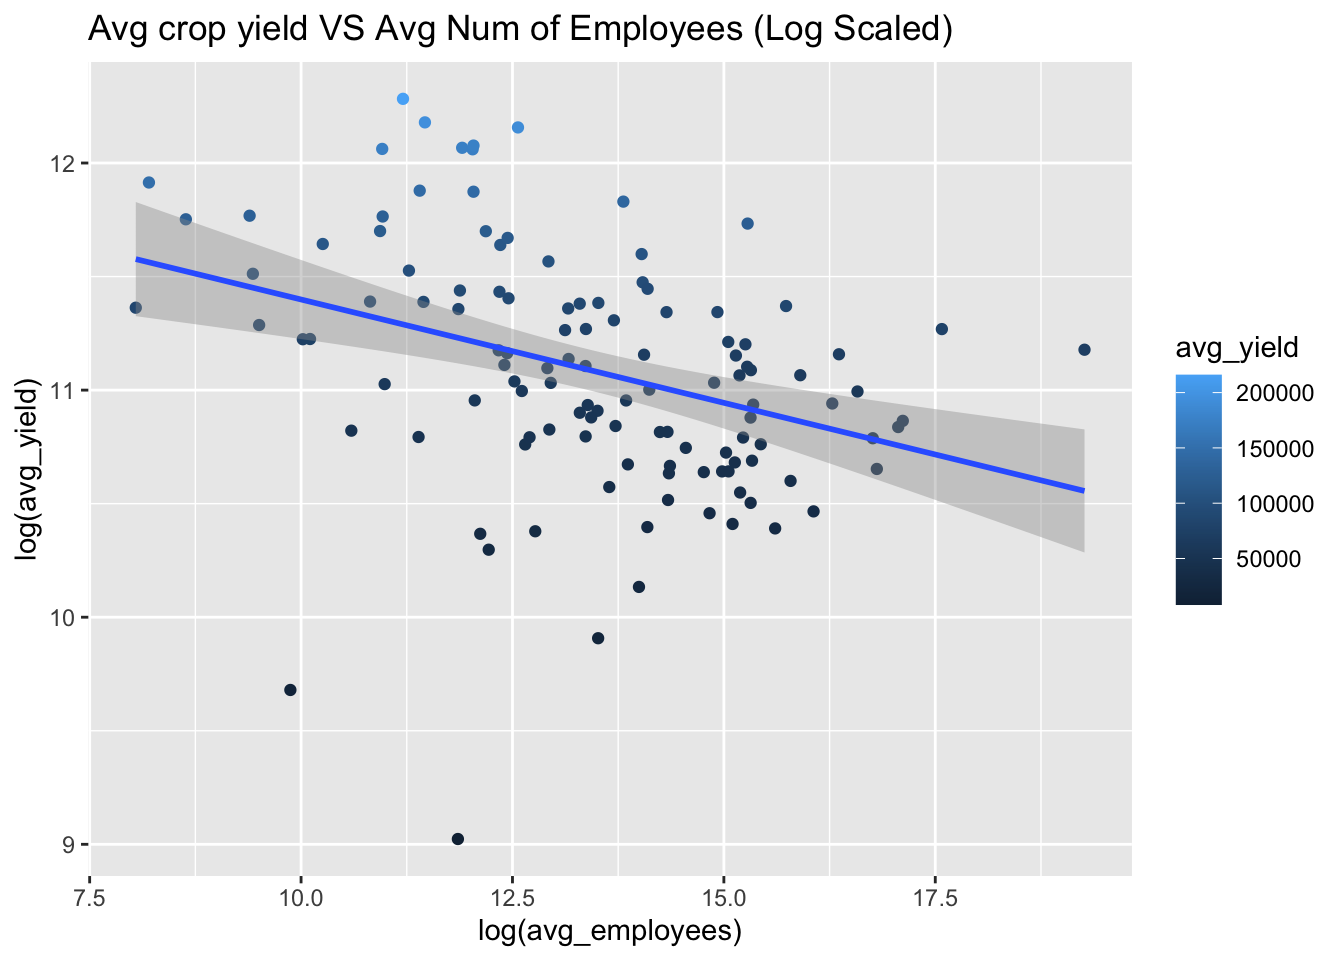
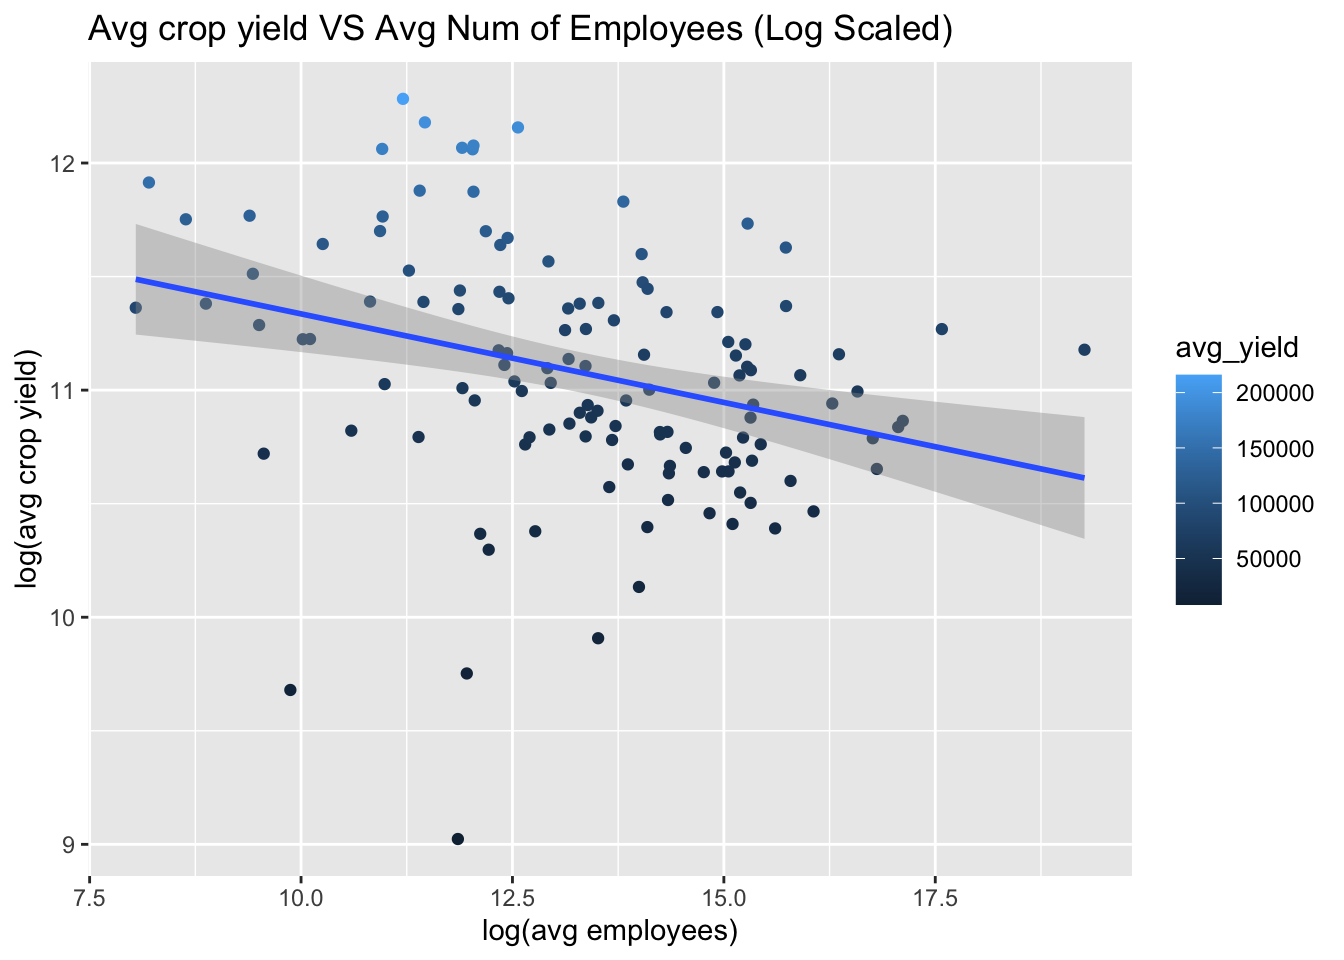
Normality check and distribution plots

diff --git a/final_project.html b/final_project.html
@@ -81,7 +81,11 @@ pre > code.sourceCode > span > a:first-child::before { text-decoration: underlin
   <ul>
   <li><a href="#loading-data" id="toc-loading-data" class="nav-link active" data-scroll-target="#loading-data">Loading data</a></li>
   <li><a href="#data-cleaning-arranging" id="toc-data-cleaning-arranging" class="nav-link" data-scroll-target="#data-cleaning-arranging">Data Cleaning &amp; Arranging</a></li>
-  <li><a href="#data-visualization" id="toc-data-visualization" class="nav-link" data-scroll-target="#data-visualization">Data Visualization</a></li>
+  <li><a href="#data-visualization" id="toc-data-visualization" class="nav-link" data-scroll-target="#data-visualization">Data Visualization</a>
+  <ul class="collapse">
+  <li><a href="#scatter-plots" id="toc-scatter-plots" class="nav-link" data-scroll-target="#scatter-plots">Scatter plots</a></li>
+  </ul></li>
+  <li><a href="#distribution-plot" id="toc-distribution-plot" class="nav-link" data-scroll-target="#distribution-plot">Distribution plot</a></li>
   </ul>
 </nav>
 </div>
@@ -355,26 +359,32 @@ pre > code.sourceCode > span > a:first-child::before { text-decoration: underlin
 </section>
 <section id="data-visualization" class="level1">
 <h1>Data Visualization</h1>
+<section id="scatter-plots" class="level2">
+<h2 class="anchored" data-anchor-id="scatter-plots">Scatter plots</h2>
 <div class="cell">
 <div class="sourceCode cell-code" id="cb22"><pre class="sourceCode r code-with-copy"><code class="sourceCode r"><span id="cb22-1"><a href="#cb22-1" aria-hidden="true" tabindex="-1"></a>filled_with_avg <span class="sc">|&gt;</span></span>
 <span id="cb22-2"><a href="#cb22-2" aria-hidden="true" tabindex="-1"></a>  <span class="fu">filter</span>(<span class="sc">!</span><span class="fu">is.na</span>(pop_amount)) <span class="sc">|&gt;</span></span>
 <span id="cb22-3"><a href="#cb22-3" aria-hidden="true" tabindex="-1"></a>  <span class="fu">group_by</span>(Country) <span class="sc">|&gt;</span></span>
 <span id="cb22-4"><a href="#cb22-4" aria-hidden="true" tabindex="-1"></a>  <span class="fu">summarize</span>(<span class="at">avg_pop =</span> <span class="fu">mean</span>(pop_amount), <span class="at">avg_yield =</span> <span class="fu">mean</span>(yield)) <span class="sc">|&gt;</span></span>
-<span id="cb22-5"><a href="#cb22-5" aria-hidden="true" tabindex="-1"></a>  <span class="fu">ggplot</span>(<span class="fu">aes</span>(<span class="at">x=</span><span class="fu">log</span>(avg_pop), <span class="at">y=</span><span class="fu">log</span>(avg_yield), <span class="at">color=</span>avg_yield)) <span class="sc">+</span></span>
+<span id="cb22-5"><a href="#cb22-5" aria-hidden="true" tabindex="-1"></a>  <span class="fu">ggplot</span>(<span class="fu">aes</span>(<span class="at">x=</span><span class="fu">log</span>(avg_pop <span class="sc">+</span> <span class="dv">1</span>), <span class="at">y=</span><span class="fu">log</span>(avg_yield <span class="sc">+</span> <span class="dv">1</span>), <span class="at">color=</span>avg_yield)) <span class="sc">+</span></span>
 <span id="cb22-6"><a href="#cb22-6" aria-hidden="true" tabindex="-1"></a>  <span class="fu">geom_point</span>() <span class="sc">+</span> </span>
 <span id="cb22-7"><a href="#cb22-7" aria-hidden="true" tabindex="-1"></a>  <span class="fu">geom_smooth</span>(<span class="at">formula =</span> y<span class="sc">~</span>x, <span class="at">method=</span><span class="st">'lm'</span>) <span class="sc">+</span> </span>
-<span id="cb22-8"><a href="#cb22-8" aria-hidden="true" tabindex="-1"></a>  <span class="fu">labs</span>(<span class="at">title=</span><span class="st">'Avg crop yield VS Avg Population  (Log Scaled)'</span>)</span></code><button title="Copy to Clipboard" class="code-copy-button"><i class="bi"></i></button></pre></div>
+<span id="cb22-8"><a href="#cb22-8" aria-hidden="true" tabindex="-1"></a>  <span class="fu">labs</span>(<span class="at">title=</span><span class="st">'Avg crop yield VS Avg Population  (Log Scaled)'</span>,</span>
+<span id="cb22-9"><a href="#cb22-9" aria-hidden="true" tabindex="-1"></a>       <span class="at">x=</span><span class="st">'log(avg population)'</span>,</span>
+<span id="cb22-10"><a href="#cb22-10" aria-hidden="true" tabindex="-1"></a>       <span class="at">y=</span><span class="st">'log(avg crop yield)'</span>)</span></code><button title="Copy to Clipboard" class="code-copy-button"><i class="bi"></i></button></pre></div>
 <div class="cell-output-display">
 <p><img src="final_project_files/figure-html/unnamed-chunk-8-1.png" class="quarto-discovered-preview-image img-fluid" width="672"></p>
 </div>
 <div class="sourceCode cell-code" id="cb23"><pre class="sourceCode r code-with-copy"><code class="sourceCode r"><span id="cb23-1"><a href="#cb23-1" aria-hidden="true" tabindex="-1"></a>filled_with_avg <span class="sc">|&gt;</span></span>
-<span id="cb23-2"><a href="#cb23-2" aria-hidden="true" tabindex="-1"></a>  <span class="fu">filter</span>(<span class="sc">!</span><span class="fu">is.na</span>(pop_amount)) <span class="sc">|&gt;</span></span>
+<span id="cb23-2"><a href="#cb23-2" aria-hidden="true" tabindex="-1"></a>  <span class="fu">filter</span>(<span class="sc">!</span><span class="fu">is.na</span>(number_employed_agri)) <span class="sc">|&gt;</span></span>
 <span id="cb23-3"><a href="#cb23-3" aria-hidden="true" tabindex="-1"></a>  <span class="fu">group_by</span>(Country) <span class="sc">|&gt;</span></span>
 <span id="cb23-4"><a href="#cb23-4" aria-hidden="true" tabindex="-1"></a>  <span class="fu">summarize</span>(<span class="at">avg_employees =</span> <span class="fu">mean</span>(number_employed_agri), <span class="at">avg_yield =</span> <span class="fu">mean</span>(yield)) <span class="sc">|&gt;</span></span>
-<span id="cb23-5"><a href="#cb23-5" aria-hidden="true" tabindex="-1"></a>  <span class="fu">ggplot</span>(<span class="fu">aes</span>(<span class="at">x=</span><span class="fu">log</span>(avg_employees), <span class="at">y=</span><span class="fu">log</span>(avg_yield), <span class="at">color=</span>avg_yield)) <span class="sc">+</span></span>
+<span id="cb23-5"><a href="#cb23-5" aria-hidden="true" tabindex="-1"></a>  <span class="fu">ggplot</span>(<span class="fu">aes</span>(<span class="at">x=</span><span class="fu">log</span>(avg_employees <span class="sc">+</span> <span class="dv">1</span>), <span class="at">y=</span><span class="fu">log</span>(avg_yield <span class="sc">+</span> <span class="dv">1</span>), <span class="at">color=</span>avg_yield)) <span class="sc">+</span></span>
 <span id="cb23-6"><a href="#cb23-6" aria-hidden="true" tabindex="-1"></a>  <span class="fu">geom_point</span>() <span class="sc">+</span> </span>
 <span id="cb23-7"><a href="#cb23-7" aria-hidden="true" tabindex="-1"></a>  <span class="fu">geom_smooth</span>(<span class="at">formula =</span> y<span class="sc">~</span>x, <span class="at">method=</span><span class="st">'lm'</span>) <span class="sc">+</span> </span>
-<span id="cb23-8"><a href="#cb23-8" aria-hidden="true" tabindex="-1"></a>  <span class="fu">labs</span>(<span class="at">title=</span><span class="st">'Avg crop yield VS Avg Num of Employees (Log Scaled)'</span>)</span></code><button title="Copy to Clipboard" class="code-copy-button"><i class="bi"></i></button></pre></div>
+<span id="cb23-8"><a href="#cb23-8" aria-hidden="true" tabindex="-1"></a>  <span class="fu">labs</span>(<span class="at">title=</span><span class="st">'Avg crop yield VS Avg Num of Employees (Log Scaled)'</span>,</span>
+<span id="cb23-9"><a href="#cb23-9" aria-hidden="true" tabindex="-1"></a>       <span class="at">x=</span><span class="st">'log(avg employees)'</span>,</span>
+<span id="cb23-10"><a href="#cb23-10" aria-hidden="true" tabindex="-1"></a>       <span class="at">y=</span><span class="st">'log(avg crop yield)'</span>)</span></code><button title="Copy to Clipboard" class="code-copy-button"><i class="bi"></i></button></pre></div>
 <div class="cell-output-display">
 <p><img src="final_project_files/figure-html/unnamed-chunk-8-2.png" class="img-fluid" width="672"></p>
 </div>
@@ -404,10 +414,12 @@ pre > code.sourceCode > span > a:first-child::before { text-decoration: underlin
 <span id="cb26-2"><a href="#cb26-2" aria-hidden="true" tabindex="-1"></a>  <span class="fu">filter</span>(<span class="sc">!</span><span class="fu">is.na</span>(land_price)) <span class="sc">|&gt;</span></span>
 <span id="cb26-3"><a href="#cb26-3" aria-hidden="true" tabindex="-1"></a>  <span class="fu">group_by</span>(Country) <span class="sc">|&gt;</span></span>
 <span id="cb26-4"><a href="#cb26-4" aria-hidden="true" tabindex="-1"></a>  <span class="fu">summarize</span>(<span class="at">avg_land_price =</span> <span class="fu">mean</span>(land_price), <span class="at">avg_yield =</span> <span class="fu">mean</span>(yield)) <span class="sc">|&gt;</span></span>
-<span id="cb26-5"><a href="#cb26-5" aria-hidden="true" tabindex="-1"></a>  <span class="fu">ggplot</span>(<span class="fu">aes</span>(<span class="at">x=</span><span class="fu">log</span>(avg_land_price), <span class="at">y=</span><span class="fu">log</span>(avg_yield), <span class="at">color=</span>avg_yield)) <span class="sc">+</span> </span>
+<span id="cb26-5"><a href="#cb26-5" aria-hidden="true" tabindex="-1"></a>  <span class="fu">ggplot</span>(<span class="fu">aes</span>(<span class="at">x=</span><span class="fu">log</span>(avg_land_price <span class="sc">+</span> <span class="dv">1</span>), <span class="at">y=</span><span class="fu">log</span>(avg_yield <span class="sc">+</span> <span class="dv">1</span>), <span class="at">color=</span>avg_yield)) <span class="sc">+</span> </span>
 <span id="cb26-6"><a href="#cb26-6" aria-hidden="true" tabindex="-1"></a>  <span class="fu">geom_point</span>() <span class="sc">+</span> </span>
 <span id="cb26-7"><a href="#cb26-7" aria-hidden="true" tabindex="-1"></a>  <span class="fu">geom_smooth</span>(<span class="at">formula =</span> y<span class="sc">~</span>x, <span class="at">method=</span><span class="st">'lm'</span>) <span class="sc">+</span> </span>
-<span id="cb26-8"><a href="#cb26-8" aria-hidden="true" tabindex="-1"></a>  <span class="fu">labs</span>(<span class="at">title =</span> <span class="st">'Avg crop yield VS Avg Land price (Log Scaled)'</span>)</span></code><button title="Copy to Clipboard" class="code-copy-button"><i class="bi"></i></button></pre></div>
+<span id="cb26-8"><a href="#cb26-8" aria-hidden="true" tabindex="-1"></a>  <span class="fu">labs</span>(<span class="at">title =</span> <span class="st">'Avg crop yield VS Avg Land price (Log Scaled)'</span>,</span>
+<span id="cb26-9"><a href="#cb26-9" aria-hidden="true" tabindex="-1"></a>       <span class="at">x=</span><span class="st">'log(avg land price)'</span>,</span>
+<span id="cb26-10"><a href="#cb26-10" aria-hidden="true" tabindex="-1"></a>       <span class="at">y=</span><span class="st">'log(avg crop yield)'</span>)</span></code><button title="Copy to Clipboard" class="code-copy-button"><i class="bi"></i></button></pre></div>
 <div class="cell-output-display">
 <p><img src="final_project_files/figure-html/unnamed-chunk-8-5.png" class="img-fluid" width="672"></p>
 </div>
@@ -415,10 +427,12 @@ pre > code.sourceCode > span > a:first-child::before { text-decoration: underlin
 <span id="cb27-2"><a href="#cb27-2" aria-hidden="true" tabindex="-1"></a>  <span class="fu">filter</span>(<span class="sc">!</span><span class="fu">is.na</span>(pesticides_amount)) <span class="sc">|&gt;</span></span>
 <span id="cb27-3"><a href="#cb27-3" aria-hidden="true" tabindex="-1"></a>  <span class="fu">group_by</span>(Country) <span class="sc">|&gt;</span></span>
 <span id="cb27-4"><a href="#cb27-4" aria-hidden="true" tabindex="-1"></a>  <span class="fu">summarize</span>(<span class="at">avg_pesticides =</span> <span class="fu">mean</span>(pesticides_amount), <span class="at">avg_yield =</span> <span class="fu">mean</span>(yield)) <span class="sc">|&gt;</span></span>
-<span id="cb27-5"><a href="#cb27-5" aria-hidden="true" tabindex="-1"></a>  <span class="fu">ggplot</span>(<span class="fu">aes</span>(<span class="at">x=</span><span class="fu">log</span>(avg_pesticides), <span class="at">y=</span><span class="fu">log</span>(avg_yield), <span class="at">color=</span>avg_yield)) <span class="sc">+</span> </span>
+<span id="cb27-5"><a href="#cb27-5" aria-hidden="true" tabindex="-1"></a>  <span class="fu">ggplot</span>(<span class="fu">aes</span>(<span class="at">x=</span><span class="fu">log</span>(avg_pesticides <span class="sc">+</span> <span class="dv">1</span>), <span class="at">y=</span><span class="fu">log</span>(avg_yield <span class="sc">+</span> <span class="dv">1</span>), <span class="at">color=</span>avg_yield)) <span class="sc">+</span> </span>
 <span id="cb27-6"><a href="#cb27-6" aria-hidden="true" tabindex="-1"></a>  <span class="fu">geom_point</span>() <span class="sc">+</span> </span>
 <span id="cb27-7"><a href="#cb27-7" aria-hidden="true" tabindex="-1"></a>  <span class="fu">geom_smooth</span>(<span class="at">formula =</span> y<span class="sc">~</span>x, <span class="at">method=</span><span class="st">'lm'</span>) <span class="sc">+</span> </span>
-<span id="cb27-8"><a href="#cb27-8" aria-hidden="true" tabindex="-1"></a>  <span class="fu">labs</span>(<span class="at">title =</span> <span class="st">'Avg crop yield VS Avg Pesticides amount (Log Scaled)'</span>)</span></code><button title="Copy to Clipboard" class="code-copy-button"><i class="bi"></i></button></pre></div>
+<span id="cb27-8"><a href="#cb27-8" aria-hidden="true" tabindex="-1"></a>  <span class="fu">labs</span>(<span class="at">title =</span> <span class="st">'Avg crop yield VS Avg Pesticides amount (Log Scaled)'</span>,</span>
+<span id="cb27-9"><a href="#cb27-9" aria-hidden="true" tabindex="-1"></a>       <span class="at">x=</span><span class="st">'log(avg pesticides)'</span>,</span>
+<span id="cb27-10"><a href="#cb27-10" aria-hidden="true" tabindex="-1"></a>       <span class="at">y=</span><span class="st">'log(avg crop yield)'</span>)</span></code><button title="Copy to Clipboard" class="code-copy-button"><i class="bi"></i></button></pre></div>
 <div class="cell-output-display">
 <p><img src="final_project_files/figure-html/unnamed-chunk-8-6.png" class="img-fluid" width="672"></p>
 </div>
@@ -426,12 +440,84 @@ pre > code.sourceCode > span > a:first-child::before { text-decoration: underlin
 <span id="cb28-2"><a href="#cb28-2" aria-hidden="true" tabindex="-1"></a>  <span class="fu">filter</span>(<span class="sc">!</span><span class="fu">is.na</span>(crop_price)) <span class="sc">|&gt;</span></span>
 <span id="cb28-3"><a href="#cb28-3" aria-hidden="true" tabindex="-1"></a>  <span class="fu">group_by</span>(Country) <span class="sc">|&gt;</span></span>
 <span id="cb28-4"><a href="#cb28-4" aria-hidden="true" tabindex="-1"></a>  <span class="fu">summarize</span>(<span class="at">avg_crop_price =</span> <span class="fu">mean</span>(pesticides_amount), <span class="at">avg_yield =</span> <span class="fu">mean</span>(yield)) <span class="sc">|&gt;</span></span>
-<span id="cb28-5"><a href="#cb28-5" aria-hidden="true" tabindex="-1"></a>  <span class="fu">ggplot</span>(<span class="fu">aes</span>(<span class="at">x=</span><span class="fu">log</span>(avg_crop_price), <span class="at">y=</span><span class="fu">log</span>(avg_yield), <span class="at">color=</span>avg_yield)) <span class="sc">+</span> </span>
+<span id="cb28-5"><a href="#cb28-5" aria-hidden="true" tabindex="-1"></a>  <span class="fu">ggplot</span>(<span class="fu">aes</span>(<span class="at">x=</span><span class="fu">log</span>(avg_crop_price <span class="sc">+</span> <span class="dv">1</span>), <span class="at">y=</span><span class="fu">log</span>(avg_yield <span class="sc">+</span> <span class="dv">1</span>), <span class="at">color=</span>avg_yield)) <span class="sc">+</span> </span>
 <span id="cb28-6"><a href="#cb28-6" aria-hidden="true" tabindex="-1"></a>  <span class="fu">geom_point</span>() <span class="sc">+</span> </span>
 <span id="cb28-7"><a href="#cb28-7" aria-hidden="true" tabindex="-1"></a>  <span class="fu">geom_smooth</span>(<span class="at">formula =</span> y<span class="sc">~</span>x, <span class="at">method=</span><span class="st">'lm'</span>) <span class="sc">+</span> </span>
-<span id="cb28-8"><a href="#cb28-8" aria-hidden="true" tabindex="-1"></a>  <span class="fu">labs</span>(<span class="at">title =</span> <span class="st">'Avg crop yield VS Avg Crop price (Log Scaled)'</span>)</span></code><button title="Copy to Clipboard" class="code-copy-button"><i class="bi"></i></button></pre></div>
+<span id="cb28-8"><a href="#cb28-8" aria-hidden="true" tabindex="-1"></a>  <span class="fu">labs</span>(<span class="at">title =</span> <span class="st">'Avg crop yield VS Avg Crop price (Log Scaled)'</span>,</span>
+<span id="cb28-9"><a href="#cb28-9" aria-hidden="true" tabindex="-1"></a>       <span class="at">x=</span><span class="st">'log(avg crop price)'</span>,</span>
+<span id="cb28-10"><a href="#cb28-10" aria-hidden="true" tabindex="-1"></a>       <span class="at">y=</span><span class="st">'log(avg crop yield)'</span>)</span></code><button title="Copy to Clipboard" class="code-copy-button"><i class="bi"></i></button></pre></div>
 <div class="cell-output-display">
 <p><img src="final_project_files/figure-html/unnamed-chunk-8-7.png" class="img-fluid" width="672"></p>
+</div>
+</div>
+</section>
+</section>
+<section id="distribution-plot" class="level1">
+<h1>Distribution plot</h1>
+<p>Determine the distribution of our response variable “yield”</p>
+<div class="cell">
+<div class="sourceCode cell-code" id="cb29"><pre class="sourceCode r code-with-copy"><code class="sourceCode r"><span id="cb29-1"><a href="#cb29-1" aria-hidden="true" tabindex="-1"></a>yield_hist <span class="ot">&lt;-</span> filled_with_avg <span class="sc">|&gt;</span></span>
+<span id="cb29-2"><a href="#cb29-2" aria-hidden="true" tabindex="-1"></a>  <span class="fu">na.omit</span>() <span class="sc">|&gt;</span></span>
+<span id="cb29-3"><a href="#cb29-3" aria-hidden="true" tabindex="-1"></a>  <span class="fu">ggplot</span>(<span class="fu">aes</span>(<span class="at">x=</span>yield)) <span class="sc">+</span> </span>
+<span id="cb29-4"><a href="#cb29-4" aria-hidden="true" tabindex="-1"></a>  <span class="fu">geom_histogram</span>(<span class="at">fill=</span><span class="st">"#69b3a2"</span>, <span class="at">color=</span><span class="st">"#e9ecef"</span>, <span class="at">alpha=</span><span class="fl">0.8</span>,<span class="at">bins=</span><span class="dv">30</span>)<span class="sc">+</span> </span>
+<span id="cb29-5"><a href="#cb29-5" aria-hidden="true" tabindex="-1"></a>  <span class="fu">theme</span>(<span class="at">axis.text.x =</span> <span class="fu">element_text</span>(<span class="at">angle=</span><span class="dv">20</span>, <span class="at">hjust=</span><span class="fl">0.5</span>))</span>
+<span id="cb29-6"><a href="#cb29-6" aria-hidden="true" tabindex="-1"></a></span>
+<span id="cb29-7"><a href="#cb29-7" aria-hidden="true" tabindex="-1"></a>yield_hist_log <span class="ot">&lt;-</span> filled_with_avg <span class="sc">|&gt;</span></span>
+<span id="cb29-8"><a href="#cb29-8" aria-hidden="true" tabindex="-1"></a>  <span class="fu">na.omit</span>() <span class="sc">|&gt;</span></span>
+<span id="cb29-9"><a href="#cb29-9" aria-hidden="true" tabindex="-1"></a>  <span class="fu">ggplot</span>(<span class="fu">aes</span>(<span class="at">x=</span><span class="fu">log</span>(yield <span class="sc">+</span> <span class="dv">1</span>))) <span class="sc">+</span> </span>
+<span id="cb29-10"><a href="#cb29-10" aria-hidden="true" tabindex="-1"></a>  <span class="fu">geom_histogram</span>(<span class="at">fill=</span><span class="st">"#69b3a2"</span>, <span class="at">color=</span><span class="st">"#e9ecef"</span>, <span class="at">alpha=</span><span class="fl">0.8</span>,<span class="at">bins=</span><span class="dv">30</span>)<span class="sc">+</span></span>
+<span id="cb29-11"><a href="#cb29-11" aria-hidden="true" tabindex="-1"></a>  <span class="fu">labs</span>(<span class="at">x =</span> <span class="st">'log(yield)'</span>) <span class="sc">+</span> </span>
+<span id="cb29-12"><a href="#cb29-12" aria-hidden="true" tabindex="-1"></a>  <span class="fu">theme</span>(<span class="at">axis.text.x =</span> <span class="fu">element_text</span>(<span class="at">angle=</span><span class="dv">20</span>, <span class="at">hjust=</span><span class="fl">0.5</span>),</span>
+<span id="cb29-13"><a href="#cb29-13" aria-hidden="true" tabindex="-1"></a>        <span class="at">axis.title.y =</span> <span class="fu">element_blank</span>())</span>
+<span id="cb29-14"><a href="#cb29-14" aria-hidden="true" tabindex="-1"></a></span>
+<span id="cb29-15"><a href="#cb29-15" aria-hidden="true" tabindex="-1"></a>yield_hist_sqrt <span class="ot">&lt;-</span> filled_with_avg <span class="sc">|&gt;</span></span>
+<span id="cb29-16"><a href="#cb29-16" aria-hidden="true" tabindex="-1"></a>  <span class="fu">na.omit</span>() <span class="sc">|&gt;</span></span>
+<span id="cb29-17"><a href="#cb29-17" aria-hidden="true" tabindex="-1"></a>  <span class="fu">ggplot</span>(<span class="fu">aes</span>(<span class="at">x=</span><span class="fu">sqrt</span>(yield))) <span class="sc">+</span></span>
+<span id="cb29-18"><a href="#cb29-18" aria-hidden="true" tabindex="-1"></a>  <span class="fu">geom_histogram</span>(<span class="at">fill=</span><span class="st">"#69b3a2"</span>, <span class="at">color=</span><span class="st">"#e9ecef"</span>, <span class="at">alpha=</span><span class="fl">0.8</span>,<span class="at">bins=</span><span class="dv">30</span>) <span class="sc">+</span> </span>
+<span id="cb29-19"><a href="#cb29-19" aria-hidden="true" tabindex="-1"></a>  <span class="fu">theme</span>(<span class="at">axis.text.x =</span> <span class="fu">element_text</span>(<span class="at">angle=</span><span class="dv">20</span>, <span class="at">hjust=</span><span class="fl">0.5</span>),</span>
+<span id="cb29-20"><a href="#cb29-20" aria-hidden="true" tabindex="-1"></a>        <span class="at">axis.title.y =</span> <span class="fu">element_blank</span>())</span>
+<span id="cb29-21"><a href="#cb29-21" aria-hidden="true" tabindex="-1"></a>  </span>
+<span id="cb29-22"><a href="#cb29-22" aria-hidden="true" tabindex="-1"></a></span>
+<span id="cb29-23"><a href="#cb29-23" aria-hidden="true" tabindex="-1"></a>  </span>
+<span id="cb29-24"><a href="#cb29-24" aria-hidden="true" tabindex="-1"></a>  </span>
+<span id="cb29-25"><a href="#cb29-25" aria-hidden="true" tabindex="-1"></a>yield_hist <span class="sc">+</span> yield_hist_log <span class="sc">+</span> yield_hist_sqrt <span class="sc">+</span> <span class="fu">plot_annotation</span>(</span>
+<span id="cb29-26"><a href="#cb29-26" aria-hidden="true" tabindex="-1"></a>  <span class="at">title =</span> <span class="st">'Response Variable Distribution (Yield)'</span>,</span>
+<span id="cb29-27"><a href="#cb29-27" aria-hidden="true" tabindex="-1"></a>  <span class="at">theme =</span> <span class="fu">theme</span>(<span class="at">plot.title =</span> <span class="fu">element_text</span>(<span class="at">hjust=</span><span class="fl">0.5</span>))</span>
+<span id="cb29-28"><a href="#cb29-28" aria-hidden="true" tabindex="-1"></a>)</span></code><button title="Copy to Clipboard" class="code-copy-button"><i class="bi"></i></button></pre></div>
+<div class="cell-output-display">
+<p><img src="final_project_files/figure-html/unnamed-chunk-9-1.png" class="img-fluid" width="672"></p>
+</div>
+</div>
+<p>The log version of our response variable looks like it might have a normal distribution, however this needs to be tested using a statistical test. We will use Kolmogorov-Smirnov test since our data is too large for d’Agonisto &amp; Shapiro.</p>
+<div class="cell">
+<div class="sourceCode cell-code" id="cb30"><pre class="sourceCode r code-with-copy"><code class="sourceCode r"><span id="cb30-1"><a href="#cb30-1" aria-hidden="true" tabindex="-1"></a>df <span class="ot">&lt;-</span> <span class="fu">na.omit</span>(filled_with_avg)</span>
+<span id="cb30-2"><a href="#cb30-2" aria-hidden="true" tabindex="-1"></a></span>
+<span id="cb30-3"><a href="#cb30-3" aria-hidden="true" tabindex="-1"></a><span class="fu">ks.test</span>(df<span class="sc">$</span>yield, <span class="st">'pnorm'</span>)</span></code><button title="Copy to Clipboard" class="code-copy-button"><i class="bi"></i></button></pre></div>
+<div class="cell-output cell-output-stdout">
+<pre><code>
+    Asymptotic one-sample Kolmogorov-Smirnov test
+
+data:  df$yield
+D = 1, p-value &lt; 2.2e-16
+alternative hypothesis: two-sided</code></pre>
+</div>
+<div class="sourceCode cell-code" id="cb32"><pre class="sourceCode r code-with-copy"><code class="sourceCode r"><span id="cb32-1"><a href="#cb32-1" aria-hidden="true" tabindex="-1"></a><span class="fu">ks.test</span>(<span class="fu">log</span>(df<span class="sc">$</span>yield), <span class="st">'pnorm'</span>)</span></code><button title="Copy to Clipboard" class="code-copy-button"><i class="bi"></i></button></pre></div>
+<div class="cell-output cell-output-stdout">
+<pre><code>
+    Asymptotic one-sample Kolmogorov-Smirnov test
+
+data:  log(df$yield)
+D = 0.99999, p-value &lt; 2.2e-16
+alternative hypothesis: two-sided</code></pre>
+</div>
+<div class="sourceCode cell-code" id="cb34"><pre class="sourceCode r code-with-copy"><code class="sourceCode r"><span id="cb34-1"><a href="#cb34-1" aria-hidden="true" tabindex="-1"></a><span class="fu">ks.test</span>(<span class="fu">sqrt</span>(df<span class="sc">$</span>yield), <span class="st">'pnorm'</span>)</span></code><button title="Copy to Clipboard" class="code-copy-button"><i class="bi"></i></button></pre></div>
+<div class="cell-output cell-output-stdout">
+<pre><code>
+    Asymptotic one-sample Kolmogorov-Smirnov test
+
+data:  sqrt(df$yield)
+D = 1, p-value &lt; 2.2e-16
+alternative hypothesis: two-sided</code></pre>
 </div>
 </div>
 </section>
